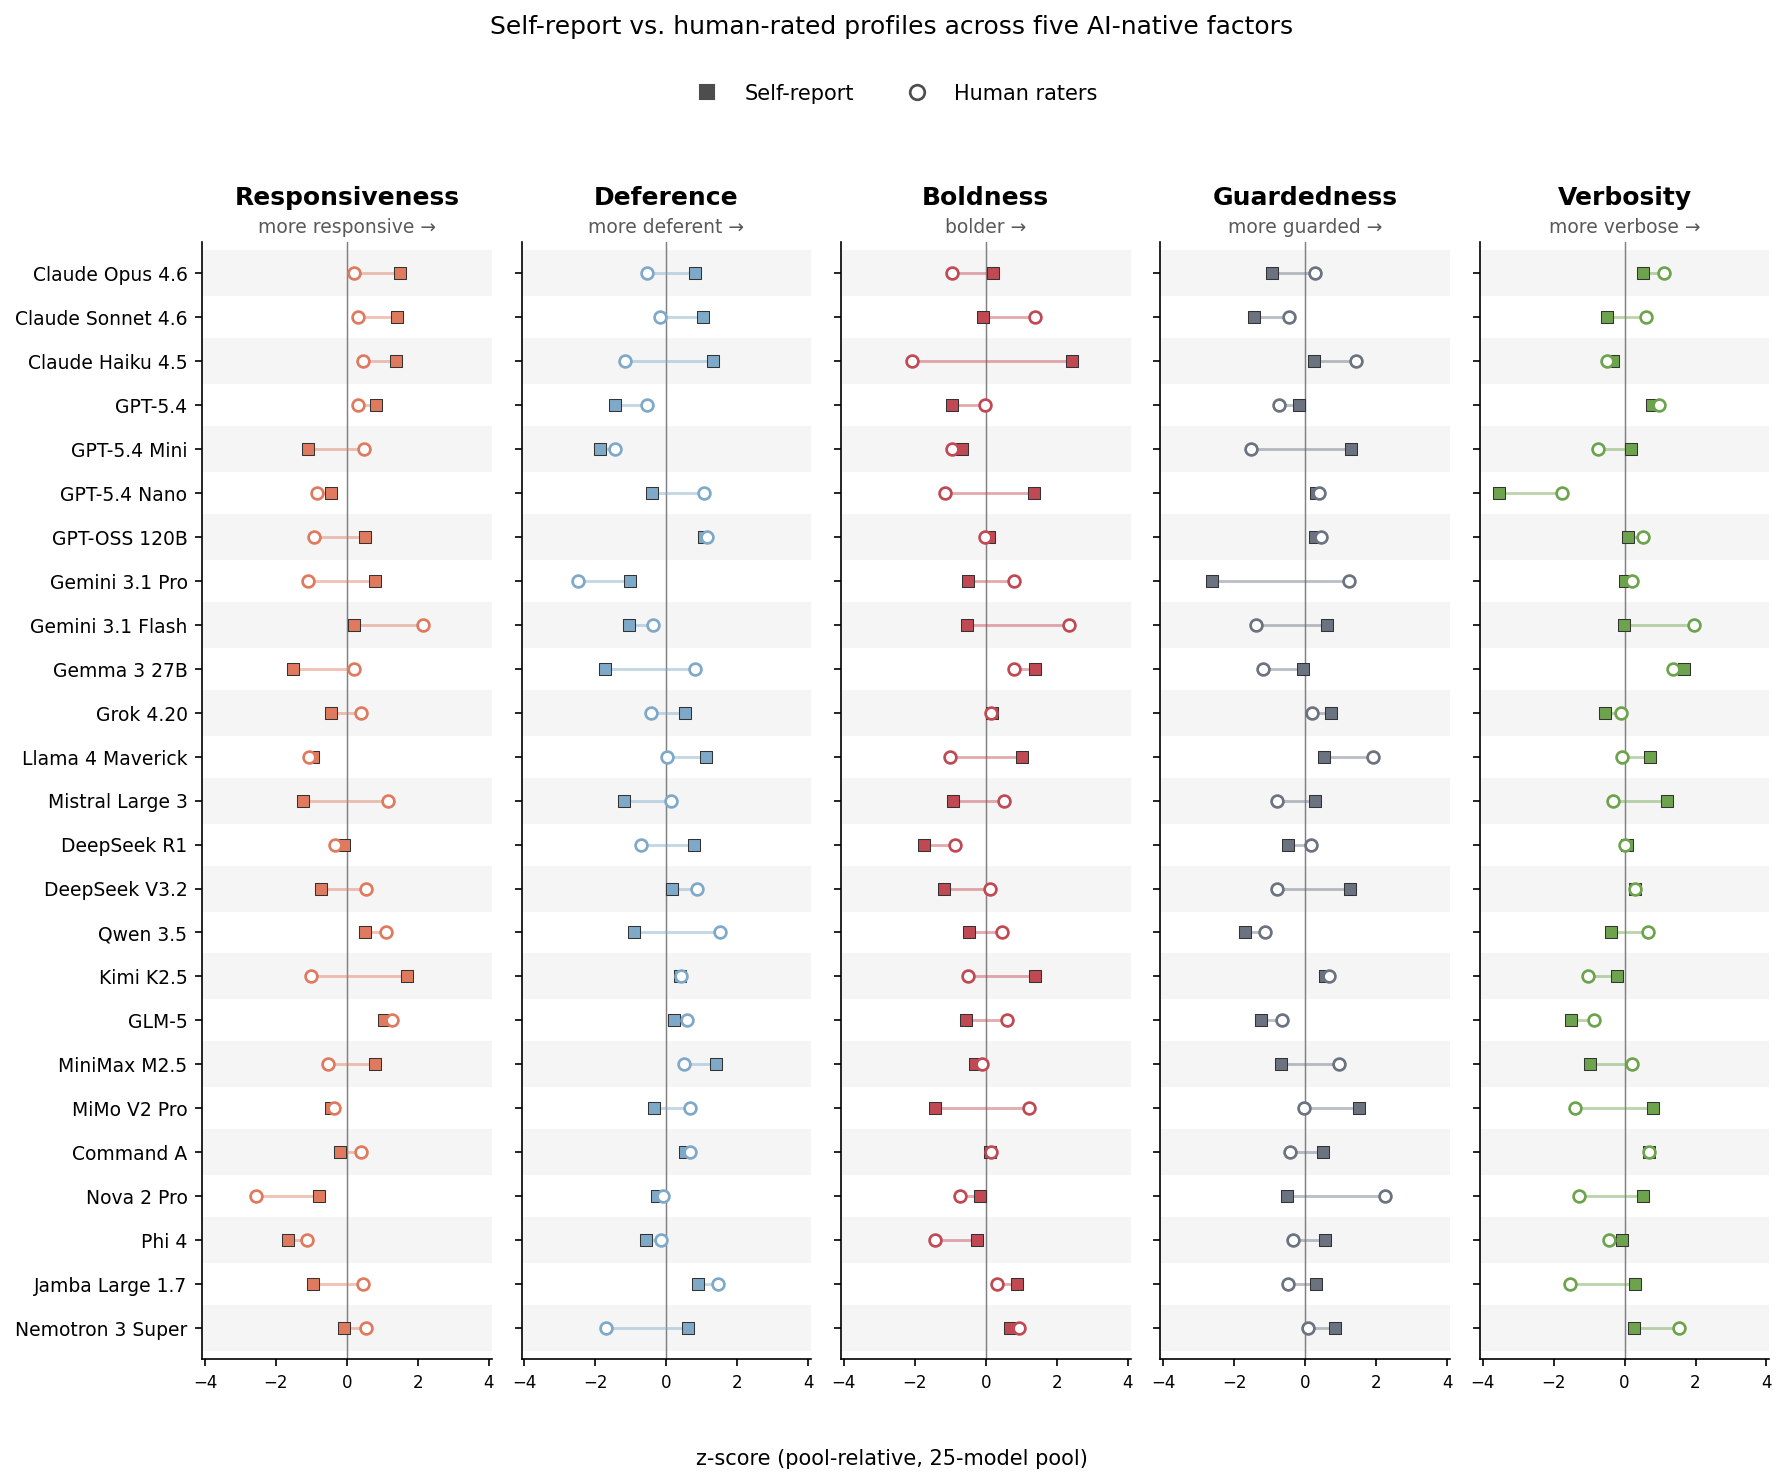
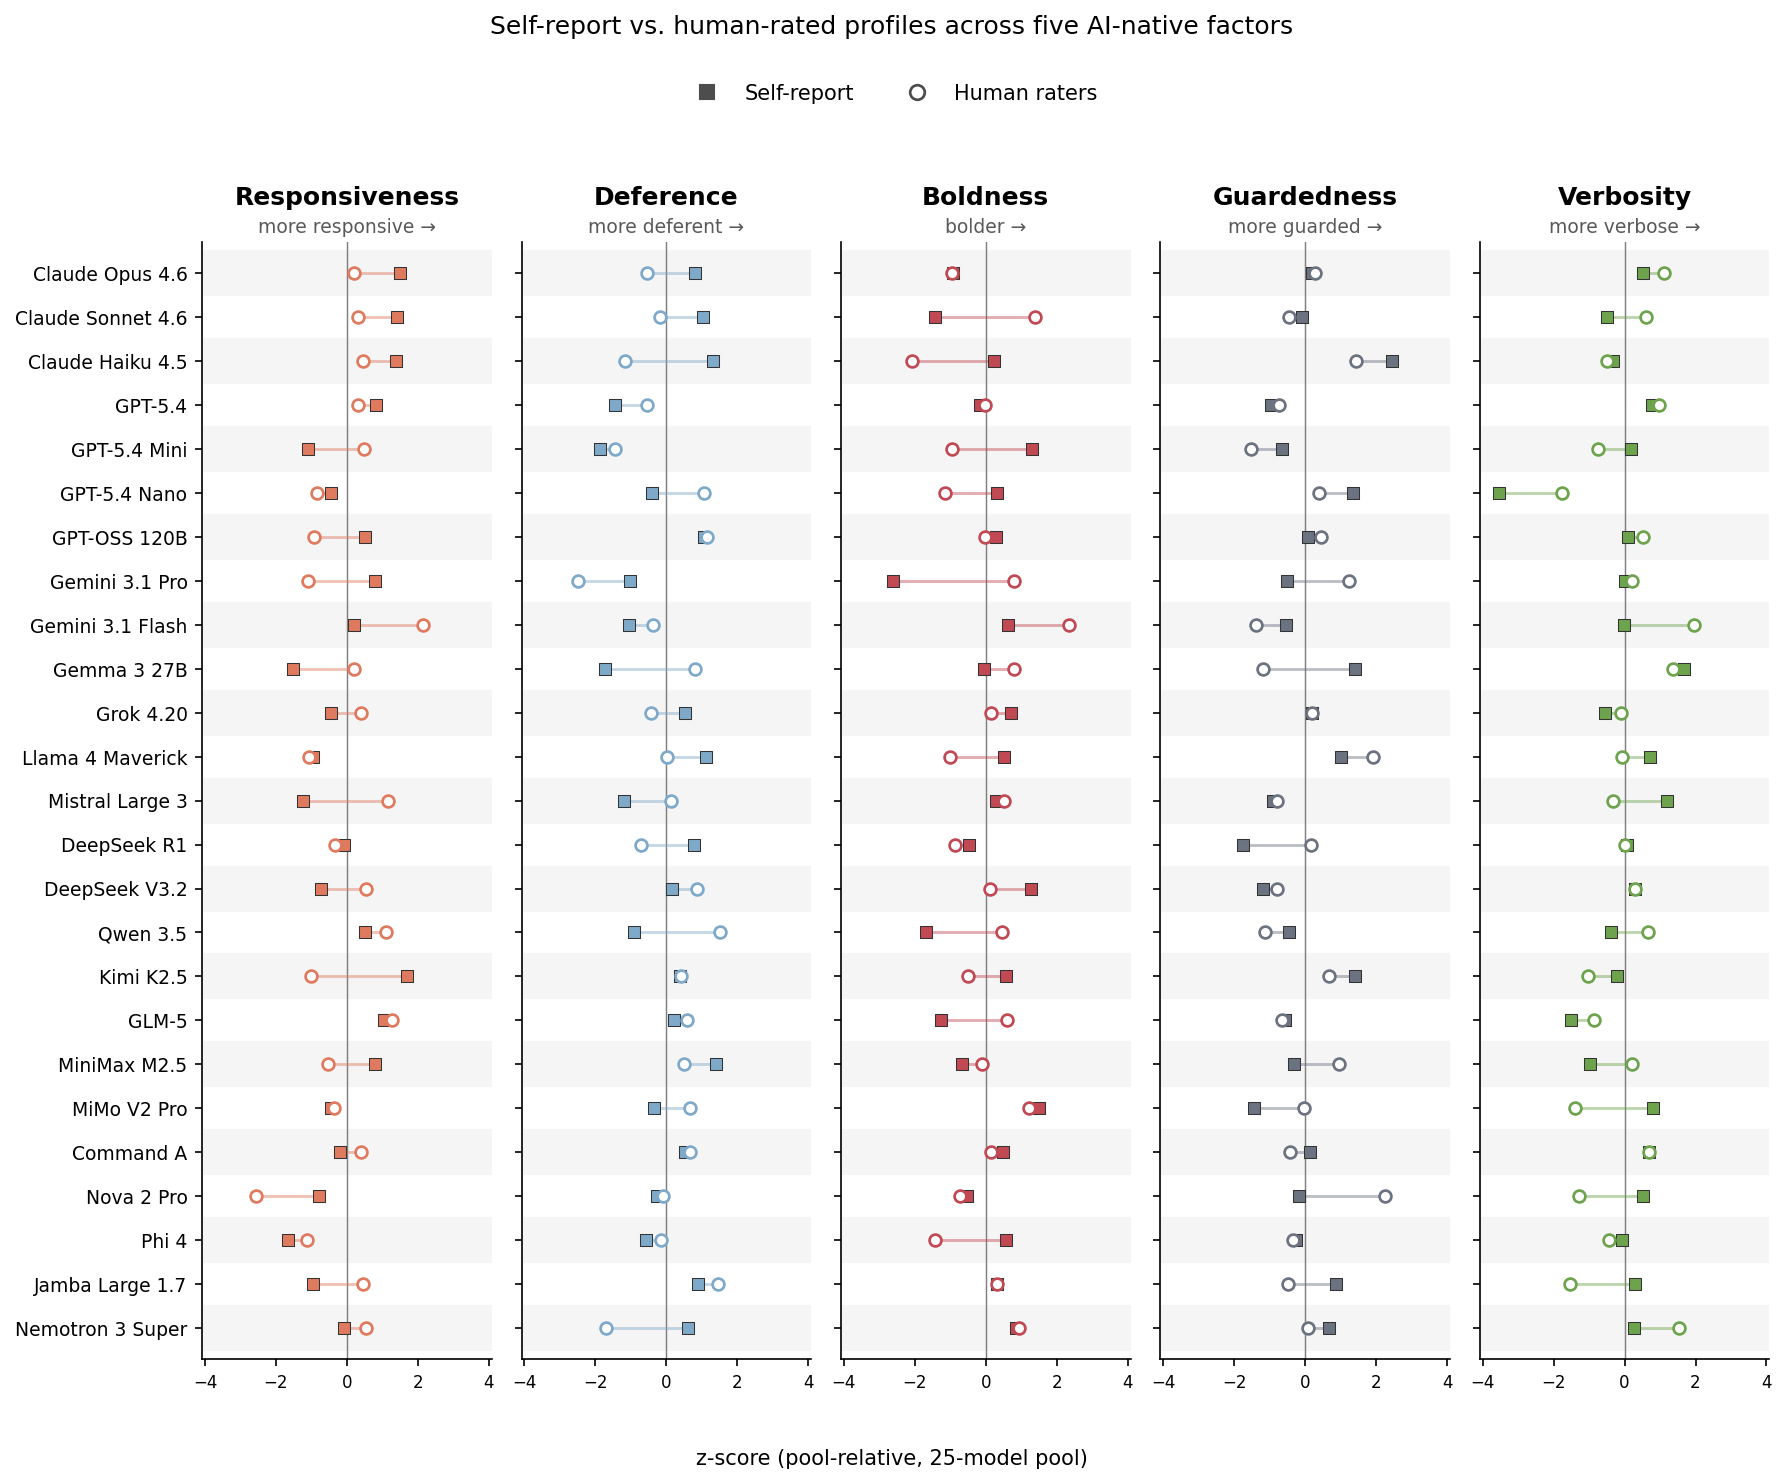
Cross-link psychometric paper across research, writing, and homepage
Point paper title links at arXiv instead of the local PDF asset (now removed),
add Essay/Summary/Instrument and Press resource sub-lines, note equal
contribution on the Morehouse citation, fix dark-mode rendering for the essay's
triangle figure and the self-report-profiles viz, crop SVG whitespace, and
drop the stale "May 2026" date from the still-forthcoming Flynn essay.

diff --git a/writing/llm-self-reports-dont-predict-llm-behavior/index.html b/writing/llm-self-reports-dont-predict-llm-behavior/index.html
@@ -8,7 +8,7 @@
   <link rel="preconnect" href="https://fonts.googleapis.com" />
   <link rel="preconnect" href="https://fonts.gstatic.com" crossorigin />
   <link href="https://fonts.googleapis.com/css2?family=Source+Serif+4:opsz,wght@8..60,500;8..60,600;8..60,700&display=swap" rel="stylesheet" />
-  <link rel="stylesheet" href="/assets/css/styles.css?v=20260529" />
+  <link rel="stylesheet" href="/assets/css/styles.css?v=20260622" />
   <script>(function(){try{var t=localStorage.getItem('theme');document.documentElement.dataset.theme=t||(matchMedia('(prefers-color-scheme:dark)').matches?'dark':'light');}catch(e){}})();</script>
   <link rel="canonical" href="https://juanma.phd/writing/llm-self-reports-dont-predict-llm-behavior/" />
   <link rel="icon" type="image/svg+xml" href="/favicon.svg" />
@@ -60,7 +60,7 @@
         <p class="post-meta">April 24, 2026 · Essay</p>
       </header>
 
-      <p class="post-callout">Companion to <a href="https://juanma.phd/assets/pdf/llm-native-psychometric-instrument-does-not-predict-llm-behavior.pdf" target="_blank" rel="noopener"><em>An LLM-Native Psychometric Instrument Does Not Predict LLM Behavior: Evidence Across 25 Models</em></a> (2026).</p>
+      <p class="post-callout">Companion to <a href="https://arxiv.org/abs/2606.09843" target="_blank" rel="noopener"><em>An LLM-Native Psychometric Instrument Does Not Predict LLM Behavior: Evidence Across 25 Models</em></a> (2026).</p>
 
       <p>If you administer a personality test to an LLM, it will give you coherent, consistent answers. Another LLM will give you systematically different answers.</p>
 
@@ -138,16 +138,16 @@
 
       <p>I ran each prompt five times per model, yielding 2,500 behavioral samples. Then I had each sample rated on the five factor dimensions by two independent pipelines: 151 human raters from an online research platform, and a three-judge LLM ensemble (Claude Opus 4.6, GPT-5.4, Gemini 3.1 Pro).</p>
 
-      <p>Humans and LLM judges rated the responses equivalently, correlating with each other at r = .51. Neither correlated with the models' self-report.</p>
+      <p>Humans and LLM judges rated the responses equivalently, correlating with each other at r = .51. Neither closely tracked the models' self-report.</p>
 
-      <p>The average correlation between instrument scores and human ratings was r = −.01. Not a single factor-level correlation was reliably different from zero. LLMs describe themselves consistently on this instrument, and that self-description has nothing to do with how they actually behave. The gap isn't a problem with the test. It's a property of LLM self-report itself.</p>
+      <p>The average correlation between instrument scores and human ratings was r = +.15, and not a single factor-level correlation was reliably different from zero. The two largest associations fell on the most behaviorally countable factors—Verbosity (r = .41) and Guardedness (r = .27)—but only Verbosity survived the stricter prompt-level and clustering checks; the evaluative factors sat near zero. LLMs describe themselves consistently on this instrument, and outside of sheer verbosity that self-description barely tracks how they actually behave. The gap isn't a problem with the test. It's a property of LLM self-report itself.</p>
 
       <figure class="post-figure">
-        <img src="/assets/img/posts/llm-self-reports/figure_2.png" alt="Scatter plots showing near-zero correlations between LLM self-report scores and human behavioral ratings across all five factors.">
+        <img src="/assets/img/posts/llm-self-reports/figure_2.png" alt="Plot showing near-zero correlations between LLM self-report scores and human behavioral ratings across all five factors.">
         <figcaption>Self-report scores plotted against human ratings of behavior, factor by factor. None of the relationships are reliably different from zero.</figcaption>
       </figure>
 
-      <p>This answers the question we started with. Both readings of the prior failures are partly wrong. LLMs do produce stable, structured self-description — that wasn't a guarantee, and it took an LLM-native instrument to see it. But the structure isn't tracking behavior. Self-report is its own thing.</p>
+      <p>This answers the question we started with. Both readings of the prior failures are partly wrong. LLMs do produce stable, structured self-description — that wasn't a guarantee, and it took an LLM-native instrument to see it. But the structure mostly isn't tracking behavior; only verbosity shows even a preliminary signal. Self-report is largely its own thing.</p>
 
       <h2>What the gap looks like in practice</h2>
 
@@ -181,7 +181,7 @@
       <p>The more unsettling result came from looking at all three measurement methods at once. On Responsiveness—the broadest factor, the one closest to "good assistant"‚the self-report correlated strongly with the LLM judges (r = .53) but not with humans (r = .04). And humans and judges otherwise agreed with each other on the samples (r = .59).</p>
 
       <figure class="post-figure">
-        <img src="/assets/img/posts/llm-self-reports/responsiveness_triangle.svg" alt="Triangle diagram of the three pairwise correlations on Responsiveness: self-report and LLM judges agree at r=0.53, judges and humans agree at r=0.59, but self-report and humans don't (r=0.04).">
+        <img class="figure-light" src="/assets/img/posts/llm-self-reports/responsiveness_triangle.svg" alt="Triangle diagram of the three pairwise correlations on Responsiveness: self-report and LLM judges agree at r=0.53, judges and humans agree at r=0.59, but self-report and humans don't (r=0.04).">
       </figure>
 
       <p>This triangle is mathematically incompatible with a single personality construct driving all three measurements. If one underlying "responsiveness" trait were driving self-report, human ratings, and judge ratings in parallel, the three correlations would be linked.</p>
@@ -213,9 +213,9 @@
       <p>The full instrument (100 retained items with scoring), raw response data, analysis code, and study materials are released openly. If you work on LLM evaluation, alignment, or AI psychometrics and want to build (or push back!) on this, the materials are there.</p>
 
       <p class="post-resources">
-        <a href="https://juanma.phd/assets/pdf/llm-native-psychometric-instrument-does-not-predict-llm-behavior.pdf" target="_blank" rel="noopener"><strong>Paper</strong></a> ·
-        <a href="https://github.com/jm-contreras/psycho-llm" target="_blank" rel="noopener"><strong>Code</strong> on GitHub</a> ·
-        <a href="https://osf.io/8y7ka/overview" target="_blank" rel="noopener"><strong>Data and preregistration</strong> on OSF</a>
+        <a href="https://arxiv.org/abs/2606.09843" target="_blank" rel="noopener"><strong>Paper</strong> on arXiv</a> ·
+        <a href="https://github.com/jm-contreras/psycho-llm" target="_blank" rel="noopener"><strong>Instrument</strong> on GitHub</a> ·
+        <a href="https://gist.science/paper/2606.09843" target="_blank" rel="noopener"><strong>Summary</strong> on gist.science</a>
       </p>
     </article>
 
@@ -228,7 +228,7 @@
     </div>
   </footer>
 
-  <script src="/assets/js/site.js?v=20260529" defer></script>
+  <script src="/assets/js/site.js?v=20260622" defer></script>
   <script src="/assets/js/self-report-profiles.js" defer></script>
 </body>
 </html>

diff --git a/research/index.html b/research/index.html
@@ -8,7 +8,7 @@
   <link rel="preconnect" href="https://fonts.googleapis.com" />
   <link rel="preconnect" href="https://fonts.gstatic.com" crossorigin />
   <link href="https://fonts.googleapis.com/css2?family=Source+Serif+4:opsz,wght@8..60,500;8..60,600;8..60,700&display=swap" rel="stylesheet" />
-  <link rel="stylesheet" href="/assets/css/styles.css?v=20260529" />
+  <link rel="stylesheet" href="/assets/css/styles.css?v=20260622" />
   <script>(function(){try{var t=localStorage.getItem('theme');document.documentElement.dataset.theme=t||(matchMedia('(prefers-color-scheme:dark)').matches?'dark':'light');}catch(e){}})();</script>
   <link rel="canonical" href="https://juanma.phd/research" />
   <link rel="icon" type="image/svg+xml" href="/favicon.svg" />
@@ -68,6 +68,13 @@
             <a href="https://arxiv.org/abs/2606.09843" target="_blank" rel="noopener">
                 <em>An LLM-native psychometric instrument does not predict LLM behavior: Evidence across 25 models</em></a>.
             arXiv:2606.09843. Under review, <em>NeurIPS 2026 (Evaluations &amp; Datasets Track)</em>.
+            <p class="platform-links">
+                <a href="/writing/llm-self-reports-dont-predict-llm-behavior/">Essay</a>
+                <span class="sep">·</span>
+                <a href="https://gist.science/paper/2606.09843" target="_blank" rel="noopener">Summary</a>
+                <span class="sep">·</span>
+                <a href="https://github.com/jm-contreras/psycho-llm" target="_blank" rel="noopener">Instrument</a>
+            </p>
         </li>
 
         <li id="pub-inpress">
@@ -89,12 +96,15 @@
             <a href="https://arxiv.org/abs/2507.14719" target="_blank" rel="noopener">
                 <em>Policy-grounded safety evaluation of 20 large language models</em></a>.
             arXiv:2507.14719.
+            <p class="platform-links">
+                <a href="https://technical.ly/entrepreneurship/chatbot-llm-safety-matrix-aymara/" target="_blank" rel="noopener">Press</a>
+            </p>
         </li>
 
         <li id="pub-2024-morehouse">
             Morehouse, K. N.*, <strong>Contreras, J. M.*</strong>, Pan, W., & Banaji, M. R. (2024).
             <a href="https://scholar.google.com/scholar?q=Bias+transmission+in+large+language+models+Evidence+from+gender-occupation+bias+in+GPT-4" target="_blank" rel="noopener">
-                Bias transmission in large language models: Evidence from gender-occupation bias in GPT-4</a>. Next Generation of AI Safety Workshop, ICML 2024.
+                Bias transmission in large language models: Evidence from gender-occupation bias in GPT-4</a>. Next Generation of AI Safety Workshop, ICML 2024. (*equal contribution)
         </li>
       </ol>
     </section>
@@ -175,6 +185,6 @@
     </div>
   </footer>
 
-  <script src="/assets/js/site.js?v=20260529" defer></script>
+  <script src="/assets/js/site.js?v=20260622" defer></script>
 </body>
 </html>

diff --git a/assets/css/styles.css b/assets/css/styles.css
@@ -40,6 +40,8 @@ h1,h2,h3{font-family:var(--display);font-weight:600;letter-spacing:-0.015em}
 .project h3{margin:0}
 .project a img{max-width:100%;width:100%;height:auto;display:block;object-fit:contain}
 .pub-list{list-style:none;padding:0;margin:0}
+.publications-list li{margin-bottom:.6rem}
+.publications-list .platform-links{margin-top:.3rem}
 .writing-highlights{display:grid;grid-template-columns:1fr;gap:2rem;margin:0 0 2rem}
 .writing-item{padding:1.5rem;border:1px solid #eee;border-radius:8px}
 .writing-item h3{margin-top:0;margin-bottom:0.5rem}
@@ -125,6 +127,7 @@ html{scroll-behavior:smooth}
 .post-callout{padding:.85rem 1rem;background:#f4f6f8;border-radius:6px;font-size:1rem !important}
 .post-figure{margin:2rem 0;text-align:center}
 .post-figure img{max-width:100%;height:auto;border-radius:4px}
+.post-figure img.figure-light{background:#fff;padding:1rem;box-sizing:border-box}
 .post-figure figcaption{margin-top:.6rem;font-size:.9rem;color:var(--muted);text-align:center}
 .post-viz-placeholder{margin:2rem 0;padding:2.5rem 1rem;border:1px dashed #d1d5db;border-radius:6px;background:#fafbfc;text-align:center;color:var(--muted);font-size:.95rem}
 /* self-report profiles chart */
@@ -137,12 +140,12 @@ html{scroll-behavior:smooth}
 .srp-tooltip strong{font-weight:600}
 .srp-legend{margin:.5rem 0 0;display:flex;flex-wrap:wrap;gap:.65rem .9rem;font-size:.85rem;color:#374151}
 .srp-legend-item{display:inline-flex;align-items:center;gap:.4rem}
-.srp-legend-empty{color:var(--muted);font-style:italic}
+.srp-legend-empty{color:#6b7280;font-style:italic}
 .srp-swatch{display:inline-block;width:10px;height:10px;border-radius:2px}
-#self-report-profiles-viz .srp-caption,#self-report-profiles-viz p.srp-caption{margin:.75rem 0 0 !important;font-size:.80rem !important;color:var(--muted) !important;line-height:1.5 !important}
+#self-report-profiles-viz .srp-caption,#self-report-profiles-viz p.srp-caption{margin:.75rem 0 0 !important;font-size:.80rem !important;color:#6b7280 !important;line-height:1.5 !important}
 .srp-controls{border:1px solid #eef0f3;border-radius:6px;padding:.75rem;background:#fafbfc;display:flex;flex-direction:column;min-height:0}
 .srp-controls-head{display:flex;align-items:center;justify-content:space-between;margin-bottom:.5rem}
-.srp-controls-head h4{margin:0;font-size:.95rem}
+.srp-controls-head h4{margin:0;font-size:.95rem;color:#1f2937}
 .srp-clear{background:#fff;border:1px solid #d1d5db;padding:.3rem .55rem;border-radius:4px;font-size:.8rem;cursor:pointer;color:#374151}
 .srp-clear:hover{border-color:#9ca3af}
 .srp-models-wrap{position:relative}

diff --git a/index.html b/index.html
@@ -22,7 +22,7 @@
   <link rel="preconnect" href="https://fonts.googleapis.com" />
   <link rel="preconnect" href="https://fonts.gstatic.com" crossorigin />
   <link href="https://fonts.googleapis.com/css2?family=Source+Serif+4:opsz,wght@8..60,500;8..60,600;8..60,700&display=swap" rel="stylesheet" />
-  <link rel="stylesheet" href="/assets/css/styles.css?v=20260529" />
+  <link rel="stylesheet" href="/assets/css/styles.css?v=20260622" />
   <script>(function(){try{var t=localStorage.getItem('theme');document.documentElement.dataset.theme=t||(matchMedia('(prefers-color-scheme:dark)').matches?'dark':'light');}catch(e){}})();</script>
   <meta name="theme-color" content="#ffffff" />
   <link rel="canonical" href="https://juanma.phd" />
@@ -160,9 +160,10 @@
         <p>Selected publications on AI safety evaluation and model behavior.</p>
         <div class="writing-highlights">
           <article class="writing-item research">
-            <h3><a href="https://juanma.phd/assets/pdf/llm-native-psychometric-instrument-does-not-predict-llm-behavior.pdf" target="_blank" rel="noopener">An LLM-native psychometric instrument does not predict LLM behavior: Evidence across 25 models</a></h3>
+            <h3><a href="https://arxiv.org/abs/2606.09843" target="_blank" rel="noopener">An LLM-native psychometric instrument does not predict LLM behavior: Evidence across 25 models</a></h3>
             <p class="excerpt">A psychometric instrument designed for LLMs yields coherent, reliable self-reports that nonetheless fail to predict model behavior across 25 models.</p>
             <p class="meta"><strong>Contreras, J. M.</strong> (under review, NeurIPS 2026)</p>
+            <p class="platform-links"><a href="/writing/llm-self-reports-dont-predict-llm-behavior/">Essay</a> <span class="sep">·</span> <a href="https://gist.science/paper/2606.09843" target="_blank" rel="noopener">Summary</a></p>
           </article>
           <article class="writing-item research">
             <h3><a href="https://arxiv.org/abs/2509.07050" target="_blank" rel="noopener">Automated evaluation of gender bias across 13 large multimodal models</a></h3>
@@ -187,7 +188,7 @@
           <article class="writing-item essay">
             <h3><a href="/writing">Why AI Won't Make Us Dumber: The Next Flynn Effect</a></h3>
             <p class="excerpt">The Flynn Effect — rising IQ scores across generations — suggests that cognitive tools make us smarter, not dumber. AI may be the next one.</p>
-            <p class="meta">Essay · May 2026 · Internet Law &amp; Policy Foundry</p>
+            <p class="meta">Essay · Forthcoming</p>
           </article>
           <article class="writing-item essay" id="featured-essay">
             <!-- Populated by loadFeaturedWriting() -->
@@ -244,7 +245,7 @@
     </div>
   </footer>
 
-  <script src="/assets/js/site.js?v=20260529" defer></script>
+  <script src="/assets/js/site.js?v=20260622" defer></script>
   <script src="https://web3forms.com/client/script.js" async defer></script>
 </body>
 </html>

diff --git a/writing/index.html b/writing/index.html
@@ -8,7 +8,7 @@
   <link rel="preconnect" href="https://fonts.googleapis.com" />
   <link rel="preconnect" href="https://fonts.gstatic.com" crossorigin />
   <link href="https://fonts.googleapis.com/css2?family=Source+Serif+4:opsz,wght@8..60,500;8..60,600;8..60,700&display=swap" rel="stylesheet" />
-  <link rel="stylesheet" href="/assets/css/styles.css?v=20260529" />
+  <link rel="stylesheet" href="/assets/css/styles.css?v=20260622" />
   <script>(function(){try{var t=localStorage.getItem('theme');document.documentElement.dataset.theme=t||(matchMedia('(prefers-color-scheme:dark)').matches?'dark':'light');}catch(e){}})();</script>
   <link rel="canonical" href="https://juanma.phd/writing" />
   <link rel="icon" type="image/svg+xml" href="/favicon.svg" />
@@ -67,8 +67,7 @@
           <img src="/assets/img/flynn-effect.jpg" alt="Why AI Won't Make Us Dumber: The Next Flynn Effect" class="post-image" loading="lazy">
           <div class="post-content">
             <h3>Why AI Won't Make Us Dumber: The Next Flynn Effect</h3>
-            <p class="post-date">May 2026 (Forthcoming)</p>
-            <p class="post-excerpt">This essay is accepted for publication in the Internet Law &amp; Policy Foundry <em>Digital Symposium on Tech Policy</em>.</p>
+            <p class="post-date">Forthcoming</p>
           </div>
         </li>
       </ul>
@@ -92,6 +91,6 @@
     </div>
   </footer>
 
-  <script src="/assets/js/site.js?v=20260529" defer></script>
+  <script src="/assets/js/site.js?v=20260622" defer></script>
 </body>
 </html>

diff --git a/speaking/index.html b/speaking/index.html
@@ -8,7 +8,7 @@
   <link rel="preconnect" href="https://fonts.googleapis.com" />
   <link rel="preconnect" href="https://fonts.gstatic.com" crossorigin />
   <link href="https://fonts.googleapis.com/css2?family=Source+Serif+4:opsz,wght@8..60,500;8..60,600;8..60,700&display=swap" rel="stylesheet" />
-  <link rel="stylesheet" href="/assets/css/styles.css?v=20260529" />
+  <link rel="stylesheet" href="/assets/css/styles.css?v=20260622" />
   <script>(function(){try{var t=localStorage.getItem('theme');document.documentElement.dataset.theme=t||(matchMedia('(prefers-color-scheme:dark)').matches?'dark':'light');}catch(e){}})();</script>
   <link rel="canonical" href="https://juanma.phd/speaking" />
   <link rel="icon" type="image/svg+xml" href="/favicon.svg" />
@@ -69,6 +69,6 @@
     </div>
   </footer>
 
-  <script src="/assets/js/site.js?v=20260529" defer></script>
+  <script src="/assets/js/site.js?v=20260622" defer></script>
 </body>
 </html>